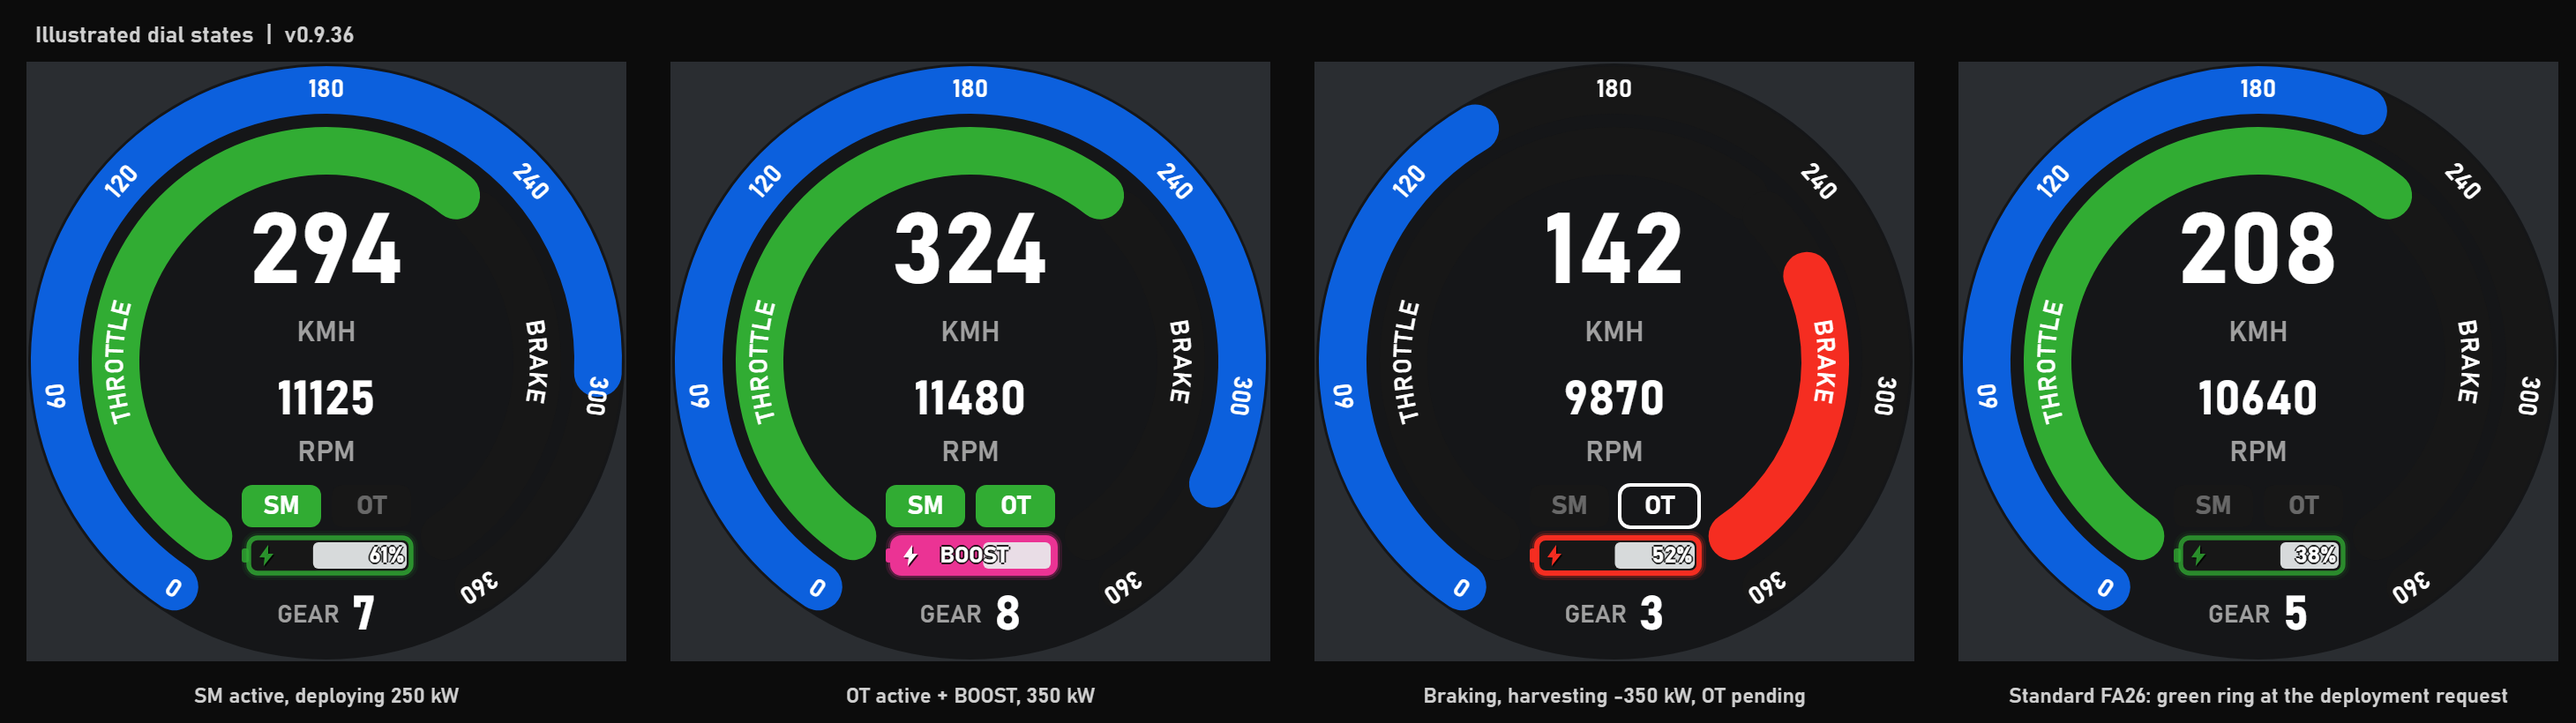
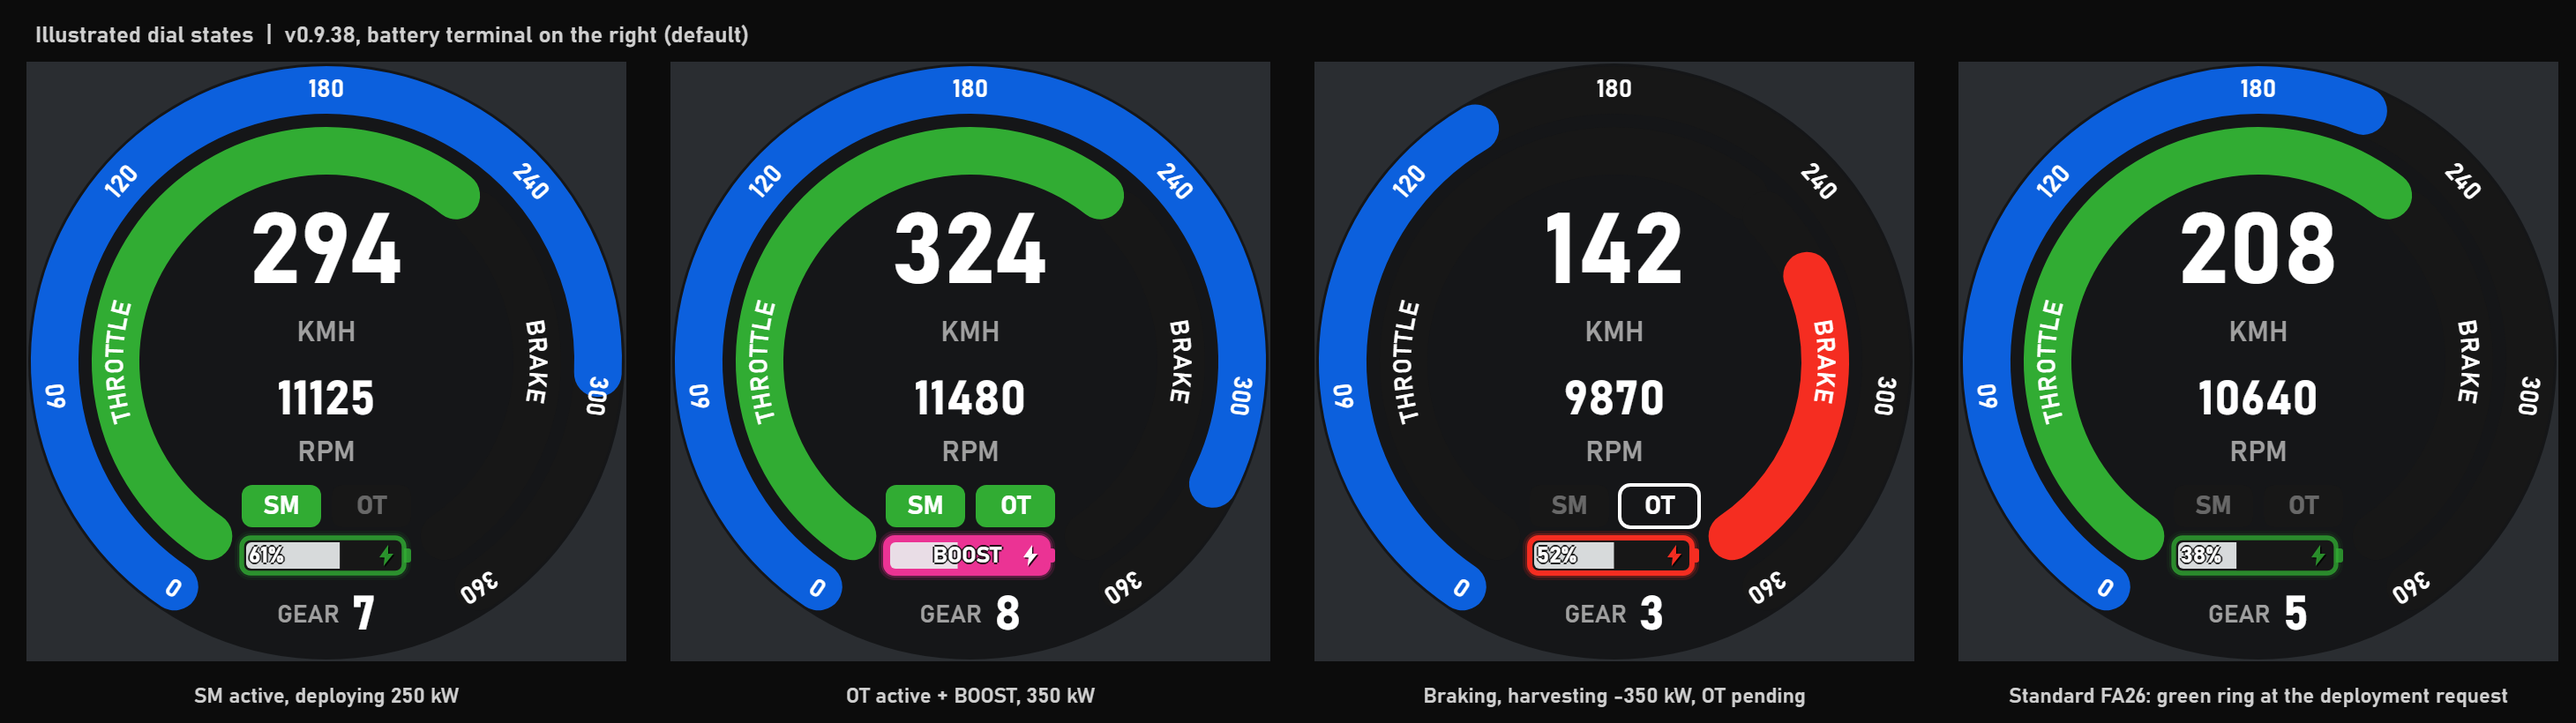
Face the battery glyph right by default (v0.9.38)
Seen in game, the right-facing glyph reads like the batteries people
know from phones and laptops, so it becomes the default: terminal on
the right, fill anchored to the left wall and draining towards it, bolt
beside the terminal, percentage at the left end. Left stays a choice in
the display settings and still draws exactly the glyph of 0.9.3 to
0.9.37.

A stored value the app does not recognise now falls back to the
right-facing glyph, and the settings window shows it as Right. The hover
text names the new default, and the README illustration is redrawn
facing right.

diff --git a/docs/COMPATIBILITY.md b/docs/COMPATIBILITY.md
@@ -4,11 +4,11 @@ Updated 2026-09-16. Runtime reference: CSP build 4116. Version 0.9.3 replaced th
 battery glyph inside the dial; version 0.9.35 reads one further native field on the standard FA26,
 its deployment request, and gives that car's panel a second chip; version 0.9.36 writes the word BOOST
 inside the glyph while that command is held; version 0.9.37 stops the Pro stream dropping every frame
-in which Straight Mode is engaged; version 0.9.38 adds a display setting that puts the glyph's terminal
-on the right and mirrors the glyph. The Pro adapter, the validity rules and both replay-stream layouts are those of
-0.9.2, so the checks below still apply to them; the standard-FA26 rows carry their own new pending
-item, because the samples behind them predate that field. The 0.9.1 ZIP is the earlier Pro-only
-build.
+in which Straight Mode is engaged; version 0.9.38 turns the glyph to face right by default and adds
+a display setting for the terminal side. The Pro adapter, the validity rules and both replay-stream
+layouts are those of 0.9.2, so the checks below still apply to them; the standard-FA26 rows carry
+their own new pending item, because the samples behind them predate that field. The 0.9.1 ZIP is
+the earlier Pro-only build.
 
 ## Support matrix
 
@@ -26,7 +26,7 @@ build.
 | Other conventional cars | Native live DRS; no supplemental recording | Generic adapter tests | Native replay reliability, per car |
 | Cars without DRS | Same DRS label, always dark | Known-absent and conflicting-input tests | A game screenshot |
 | Mixed camera, pause, reverse seek, missing data | The current snapshot is rebuilt every update; no previous-car or future-value cache | Synthetic routing and state tests | Mixed-grid acceptance |
-| Battery glyph, Pro and standard FA26 | Body = Boost button, reading `BOOST` while it is held (the single-digit charge returns beside the word); ring and terminal = the flow of the current update (red harvest, green deploy, magenta Boost); bolt = the same hue, white on the magenta Boost body; fill anchored to the wall opposite the terminal (on the left by default; the right-hand setting draws the mirror image), amber when the displayed figure is 10 % or less; `--` without fill or bolt when the charge is invalid. Brightness comes from `|kW| / 350` on the Pro, and on the standard FA26 from the deployment request, or a fixed value while it reports recovery | Offline UI checks of every state, the 5 kW deadband and the request deadband, unknown power, invalid charge, the fill anchor, the 10 % boundary, the bolt colours and winding, the native deploy / Boost / recovery precedence, the `BOOST` word with and without the single-digit number, the right-terminal mirror image (twelve states at three scales compared shape by shape with the default; the bolt moved, not flipped), and the brightness easing (raw when off or at `sim.dt` 0, decaying through idle frames, cleared by an invalid update, restarted on a car change or after undrawn updates). A lap with the automatic gearbox showed no flicker of the Pro's ring at the upshift throttle cut | A Pro session with harvesting, deploying, Boost and super-clipping; readability of the digits, bolt and ring at any scale; the right-terminal layout in game |
+| Battery glyph, Pro and standard FA26 | Body = Boost button, reading `BOOST` while it is held (the single-digit charge returns beside the word); ring and terminal = the flow of the current update (red harvest, green deploy, magenta Boost); bolt = the same hue, white on the magenta Boost body; fill anchored to the wall opposite the terminal (on the right by default; the left-hand setting draws the mirror image, the look before 0.9.38), amber when the displayed figure is 10 % or less; `--` without fill or bolt when the charge is invalid. Brightness comes from `|kW| / 350` on the Pro, and on the standard FA26 from the deployment request, or a fixed value while it reports recovery | Offline UI checks of every state, the 5 kW deadband and the request deadband, unknown power, invalid charge, the fill anchor, the 10 % boundary, the bolt colours and winding, the native deploy / Boost / recovery precedence, the `BOOST` word with and without the single-digit number, the two terminal sides as mirror images (twelve states at three scales compared shape by shape; the bolt moved, not flipped), the left side drawing exactly what 0.9.37 drew (1,536 rendered states compared draw call by draw call), and the brightness easing (raw when off or at `sim.dt` 0, decaying through idle frames, cleared by an invalid update, restarted on a car change or after undrawn updates). A lap with the automatic gearbox showed no flicker of the Pro's ring at the upshift throttle cut. Both terminal sides were viewed in game on a Pro replay before the right-facing glyph became the default | A Pro session with harvesting, deploying, Boost and super-clipping; readability of the digits, bolt and ring at any scale; the right-facing glyph on the standard FA26 and in a live session |
 | Chinese / English, scale, panel and glyph | Pro dial and panel, compact standard-FA26 panel, plain dial for other cars; the `BOOST` badge returns when the glyph is off; the glyph on either terminal side | 144 UI combinations (both terminal sides) and drawing bounds | Actual font rendering at each scale |
 
 ## What the standard-FA26 evidence means
@@ -57,15 +57,15 @@ backups and machine logs are excluded from the repository.
   recording off, replay write protection, camera changes and range limits, and the deployment
   request's validation, evidence gate, round trip through the shared strategy byte and both
   cross-version directions.
-- UI tests (11,181 checks): execute the real main Lua with a stub data adapter and a drawing
+- UI tests (11,189 checks): execute the real main Lua with a stub data adapter and a drawing
   recorder. They validate content, geometry, scale and language combinations, partial Pro data
   and the canvas origin, the battery glyph's states (harvest / deploy / Boost / idle / unknown /
   invalid, the Boost body, the fill anchored opposite the terminal, the amber low-charge rule, the
   native car's fixed-intensity red and its request-driven green, the conventional car's absence, the
-  brightness easing and its pause behaviour), the right-terminal layout as a shape-by-shape mirror
-  image of the default, and the terminal choice in the settings window; check that the pedal arcs and
-  recovery chip draw each update's values through an upshift cut and an auto-blip (three vehicle
-  kinds, live and replay); and cover the `replayGaps` diagnostic.
+  brightness easing and its pause behaviour), the two terminal sides as shape-by-shape mirror images
+  with the right one as default and fallback, and the terminal choice in the settings window; check
+  that the pedal arcs and recovery chip draw each update's values through an upshift cut and an
+  auto-blip (three vehicle kinds, live and replay); and cover the `replayGaps` diagnostic.
 - Deployment script: tested against a fake AC root in PowerShell 7 and Windows PowerShell 5.1,
   including per-file backups, hashes, unrelated-file retention, rollback, modified-file rejection
   and game-running rejection.

diff --git a/README.md b/README.md
@@ -5,8 +5,8 @@
 A broadcast-style speedometer for Assetto Corsa. It follows the camera car and selects the
 appropriate FA26 Pro, native FA26 or conventional DRS display, keeping the v0.9.1 dial design.
 
-Version **0.9.38** adds a setting for the side of the battery glyph's terminal: left, as before, or
-right, which draws the glyph as its mirror image. **0.9.37** fixes a recording defect: Pro replays
+Version **0.9.38** turns the battery glyph to face right by default, like a common battery icon, and
+adds a setting that puts its terminal back on the left. **0.9.37** fixes a recording defect: Pro replays
 recorded since 0.9.2 had no energy data at all in the frames where Straight Mode was engaged.
 **0.9.36** writes `BOOST` inside the glyph while that command is held. **0.9.35** gave the
 standard FA26 its own deployment indication on the battery glyph that
@@ -55,11 +55,11 @@ For **FA26 Pro**, three indicators show the 2026 systems:
 | Battery glyph | `--` with an idle ring | body magenta and reading `BOOST` while the Boost button is held / toggled · ring and terminal red while harvesting, green while deploying, magenta while Boost deploys, brighter with more power · bolt in the same hue, white on the magenta body · fill and digits amber when the figure is 10 % or less |
 
 **Battery glyph:** the usable charge as a fill with the percentage inside, in the slot below `SM` / `OT`.
-By default the terminal is on the left and the fill is anchored to the right, so deploying moves the
-fill edge to the right and harvesting moves it to the left, the same directions as the panel's MGU-K
-bar. Setting the terminal to the right draws the mirror image instead, facing the way most battery
-icons do: the fill is anchored to the left and drains towards it, the bolt sits beside the terminal and
-the percentage at the other end. The text is never reversed, and nothing but the placement changes. The ring
+The terminal is on the right by default, the way most battery icons face: the fill is anchored to the
+left and drains towards it, the bolt sits beside the terminal and the percentage at the other end.
+Setting the terminal to the left draws the mirror image, the only layout before 0.9.38: the fill is
+anchored to the right, so deploying moves its edge to the right and harvesting to the left, the same
+directions as the panel's MGU-K bar. The text is never reversed, and nothing but the placement changes. The ring
 around it shows the MGU-K flow of the current update, with brightness, width and a small halo
 following the power on the Pro and the deployment request on the standard FA26. Nothing animates on
 its own apart from the optional 120 ms brightness easing
@@ -98,7 +98,7 @@ No Pro MJ capacity, kW estimate, lap-recovery quota, split or PU mode is assigne
 By default, the HUD follows the **camera-focused car**. You can switch between cars in a replay
 to view their recorded data, or bind a button to keep the HUD on your own car.
 
-![v0.9.38 dial state illustrations, battery terminal on the left](docs/dial-states.png)
+![v0.9.38 dial state illustrations, battery terminal on the right (the default)](docs/dial-states.png)
 
 ## 2026 regulations
 
@@ -139,7 +139,8 @@ also works.
 
 **Updating:** close the current game session, install the new zip over the existing app and
 allow its files to be replaced. The existing HUD settings are retained. Start a new session or
-replay and check that the settings window shows version **0.9.38**. The dial no longer has side
+replay and check that the settings window shows version **0.9.38**. From this version the battery
+glyph faces right; set Display › Battery terminal to Left for the earlier look. The dial no longer has side
 bars, so the window is 340 units wide plus the panel for every car (with the bars on it was up to
 98 units wider for the Pro and 62 for the standard FA26) and the energy panel sits closer to the
 dial; drag the window once if it lands somewhere new.
@@ -158,7 +159,7 @@ has no background; hover it to get the title bar and drag it where you want it.
 
 - Open the app's settings (gear icon on the HUD's floating title bar).
 - **Display**: scale, show the energy panel, battery glyph in the dial (off restores the `BOOST`
-  badge), battery terminal side (left or right; hover it for the difference), ease the battery ring
+  badge), battery terminal side (right by default; hover it for the difference), ease the battery ring
   brightness, follow the camera-focused car, lock to the player car, dial font (default Bahnschrift),
   Chinese label font (default Microsoft YaHei UI).
 - **Language**: switch between English and 简体中文. Abbreviations such as SM, OT, BOOST, PL,
@@ -206,7 +207,7 @@ extra files; the diagnostics log and the CSP settings storage are separate from 
 | Scale | 1.00 | 0.5 to 2.5 |
 | Show energy panel | on | also a bindable button |
 | Battery glyph in the dial | on | off restores the `BOOST` badge |
-| Battery terminal | Left | Right mirrors the glyph: fill anchored to the left, bolt beside the terminal, percentage at the left end |
+| Battery terminal | Right | the usual battery icon: fill anchored to the left, bolt beside the terminal, percentage at the left end; Left mirrors it (the look before 0.9.38) |
 | Ease the battery ring brightness (120 ms, decorative) | on | brightness only; the state and hue are never eased |
 | Follow camera-focused car | on | falls back to the player car when no car is focused |
 | Lock to player car | off | also a bindable button |

diff --git a/CHANGELOG.md b/CHANGELOG.md
@@ -6,7 +6,7 @@ Development and in-game testing used the VRC Formula Alpha 2026 Pro with CSP bui
 
 | Version | In one line |
 | --- | --- |
-| 0.9.38 | **New:** a setting puts the battery glyph's terminal on the left (default) or the right |
+| 0.9.38 | **Changed:** the battery glyph faces right, like a common battery icon; a new setting turns it back to the left |
 | 0.9.37 | **Fix:** the Pro's whole energy frame was missing from replays whenever Straight Mode was engaged |
 | 0.9.36 | **New:** the glyph reads `BOOST` while the command is held; a single-digit charge stays visible beside it |
 | 0.9.35 | **New:** the standard FA26 shows its own deployment — green ring, a `Deploying` chip, recorded into replays |
@@ -26,22 +26,23 @@ Development and in-game testing used the VRC Formula Alpha 2026 Pro with CSP bui
 
 ## 0.9.38 — 2026-09-16
 
-Lets the battery glyph face either way. The default is unchanged, so the dial looks exactly as in
-0.9.37 until the setting is changed; the adapters and both replay streams are those of 0.9.37.
+Turns the battery glyph round to face the way most battery icons do, and makes the side a setting.
+The adapters and both replay streams are those of 0.9.37.
 
-- New setting "Battery terminal: Left / Right", directly under "Battery glyph in the dial". Right
-  draws the glyph as the mirror image of the default about the dial's vertical axis, the way most
-  battery icons face: the terminal closes the slot on the right, the fill is anchored to the left wall
-  and drains towards it (deploying moves its edge to the left, harvesting to the right), the bolt sits
-  beside the terminal and the percentage is left-aligned at the other end. A single-digit charge under
-  Boost then reads number, `BOOST`, bolt.
-- Only positions change. Colours, states, brightness, the word `BOOST`, the low-charge rule and the
-  data behind them are the same on both sides; the text is never reversed, and the bolt keeps its
-  shape and its shadow. The slot and the throttle and brake track caps beside it are symmetric about
-  the dial's centre line, so the mirrored glyph keeps every clearance of the default one.
-- The energy panel is not affected. With the terminal on the right, the glyph's fill edge moves the
+- The glyph now faces right by default: the terminal closes the slot on the right, the fill is
+  anchored to the left wall and drains towards it (deploying moves its edge to the left, harvesting to
+  the right), the bolt sits beside the terminal and the percentage is left-aligned at the other end. A
+  single-digit charge under Boost reads number, `BOOST`, bolt.
+- New setting "Battery terminal: Left / Right", directly under "Battery glyph in the dial". Left
+  restores the glyph of 0.9.3 to 0.9.37 exactly, including a fill edge that moves the same way as the
+  panel's MGU-K bar. Hovering the setting explains the difference. A stored value the app does not
+  recognise draws the default right-facing glyph.
+- The two sides are mirror images about the dial's vertical axis, and only positions change: colours,
+  states, brightness, the word `BOOST`, the low-charge rule and the data behind them are identical, the
+  text is never reversed, and the bolt keeps its shape and its shadow. The slot and the throttle and
+  brake track caps beside it are symmetric about that axis, so both sides keep the same clearances.
+- The energy panel is not affected. With the default right-facing glyph, the fill edge moves the
   opposite way to the panel's MGU-K bar, which keeps deployment on its right.
-- Hovering the setting explains the difference. An unrecognised stored value draws the default side.
 
 ## 0.9.37 — 2026-09-16
 

diff --git a/docs/DATA-CONTRACT.md b/docs/DATA-CONTRACT.md
@@ -62,12 +62,12 @@ The glyph in the dial draws the current update only. Nothing is smoothed, delaye
 from the one decorative easing declared at the end of this section.
 
 - **Charge**: fill length and the percentage come from `kersCharge` (Pro and native FA26). The fill
-  is anchored to the wall opposite the terminal. With the terminal on the left (the default) that is
-  the right wall, so deploying moves its edge to the right and harvesting to the left. With the
-  terminal on the right (a display setting) the whole glyph is drawn as the mirror image about the
-  dial's vertical axis, so the edge moves the other way, the bolt sits beside the terminal and the
-  percentage at the left end; text is placed, never reversed. The side changes positions only, never
-  a state, colour, brightness or value. At or below 10 % the fill and digits turn amber; red is
+  is anchored to the wall opposite the terminal, whose side is a display setting. With the terminal on
+  the right (the default since 0.9.38) that is the left wall, so deploying moves the fill edge to the
+  left and harvesting to the right; the bolt sits beside the terminal and the percentage at the left
+  end. With the terminal on the left (the only layout before 0.9.38) the whole glyph is drawn as the
+  mirror image about the dial's vertical axis, so the edge moves the other way; text is placed, never
+  reversed. The side changes positions only, never a state, colour, brightness or value. At or below 10 % the fill and digits turn amber; red is
   never used for a level. While the Boost command is held the percentage gives way to the word
   `BOOST` (the badge's own placement, centred on the body), and an unknown charge then reads `BOOST`
   rather than `--`; at or below 9 % the number returns beside the word, still amber, and the word

diff --git a/docs/KNOWN-ISSUES.md b/docs/KNOWN-ISSUES.md
@@ -1,8 +1,8 @@
 # Known issues — version 0.9.38
 
-Updated 2026-09-16 for version 0.9.38 (the battery terminal side setting, on 0.9.37's Straight Mode
-latch fix, 0.9.36's word BOOST, 0.9.35's standard-FA26 deployment request and 0.9.3's in-dial battery
-glyph; replay-stream layouts as in 0.9.2).
+Updated 2026-09-16 for version 0.9.38 (the right-facing battery glyph and its terminal setting, on
+0.9.37's Straight Mode latch fix, 0.9.36's word BOOST, 0.9.35's standard-FA26 deployment request and
+0.9.3's in-dial battery glyph; replay-stream layouts as in 0.9.2).
 
 ## Pro replays recorded between 0.9.2 and 0.9.36 lose their Straight Mode stretches
 
